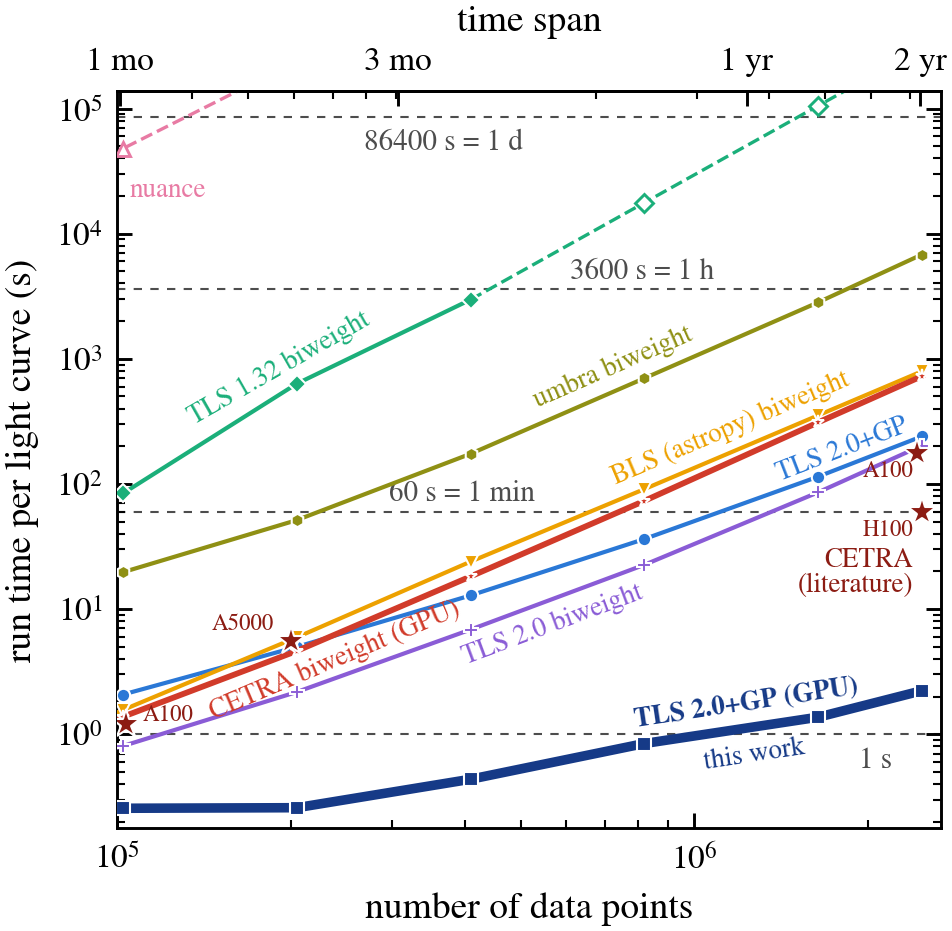
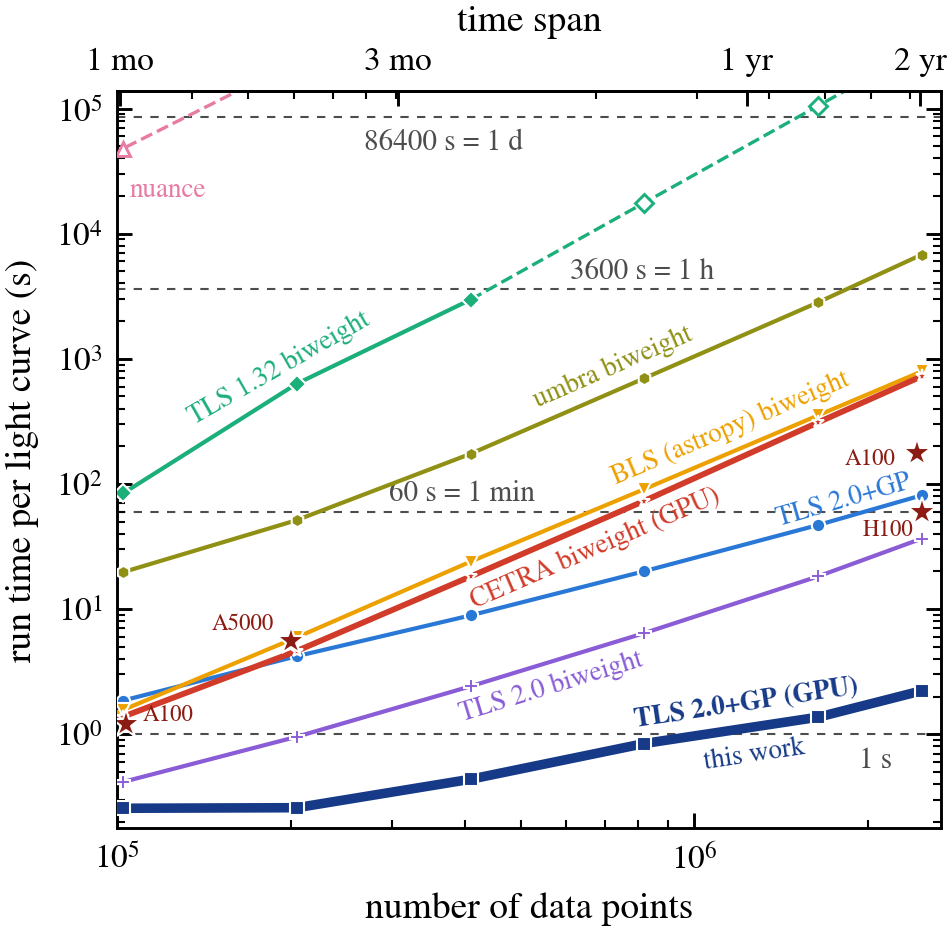
Version 2.3.0
The CPU period fold sums in single precision by default (vectorized; gp.search
fold_precision, TLS_EVENTS_FOLD_PRECISION for the events backend). README:
run times and figure of the paper's Figure 3 rerun with this version (two-year
PLATO light curve with GP: 81 s on one core, 13 s on 16 cores).

Changed region(s): [[0.1218, 0.4361, 0.9748, 0.841], [0.6702, 0.6541, 0.7616, 0.6853]]

diff --git a/transitleastsquares/version.py b/transitleastsquares/version.py
@@ -1,3 +1,3 @@
-TLS_VERSIONING = "2.2.0"
-TLS_DATE = "8 Nov 2026"
+TLS_VERSIONING = "2.3.0"
+TLS_DATE = "12 Nov 2026"
 __version__ = TLS_VERSIONING

diff --git a/docs/Changelog.md b/docs/Changelog.md
@@ -8,10 +8,11 @@ The versioning scheme is: major.minor.revision
 - **minor:** Will be increased when adding functionality in a backwards-compatible manner. Will be documented in this changelog.
 - **revision:** Will be increased for backwards-compatible bug fixes and very minor added functionality. Will not always be documented in this changelog.
 
-## Unreleased
+## Version 2.3.0 (12 November 2026)
 
 - **Changed:** The CPU period fold of `gp.search` and of the `events` backend (`fold="blocked"`) is vectorized and sums in single precision by default, as the GPU fold: about 5x faster than in 2.2.0 (409,600 points of the PLATO light curve of the paper's Figure 3, one core: the fold 6.2 s -> 1.3 s). On 84 light curves with injected transits near the detection threshold the SDE changed by at most 3e-5 and no best period or detection changed. `gp.search(fold_precision="float64")` (`TLS_EVENTS_FOLD_PRECISION=float64` for the `events` backend) gives the bit-identical results of 2.2.0, still about 3x faster.
 - **Changed:** Period groups of the cache-blocked fold are sized at the epoch grid each period uses (2.7 % faster on the two-year light curve).
+- **Changed:** The run times in the README and its figure are those of this version (two-year PLATO light curve with GP: 81 s on one core, 13 s on 16 cores; biweight + TLS 2.0: 37 s on one core).
 
 ## Version 2.2.0 (8 November 2026)
 

diff --git a/README.md b/README.md
@@ -14,7 +14,7 @@ We present a new method to detect planetary transits from time-series photometry
 ![image](https://raw.githubusercontent.com/hippke/tls/master/docs/frontpage_rescaled.png)
 
 ## What's new in TLS 2
-* **Fast:** a two-year PLATO light curve at 25 s cadence (2.5 million points) is searched with simultaneous GP detrending in 4 min on a single CPU core, 25 s on 16 cores, or about 2 s on a consumer GPU (RTX 5060), including the hyperparameter fit and flare clipping. On the same data, biweight detrending followed by TLS 2.0 takes 3.4 min on one core and BLS 13 min; CETRA needs 12 min on the same GPU, `umbra` 1.9 h, TLS 1.32 about 3.5 d, and `nuance` years.
+* **Fast:** a two-year PLATO light curve at 25 s cadence (2.5 million points) is searched with simultaneous GP detrending in 81 s on a single CPU core, 13 s on 16 cores, or about 2 s on a consumer GPU (RTX 5060), including the hyperparameter fit and flare clipping. On the same data, biweight detrending followed by TLS 2.0 takes 3.4 min on one core and BLS 13 min; CETRA needs 12 min on the same GPU, `umbra` 1.9 h, TLS 1.32 about 3.5 d, and `nuance` years.
 
   <img src="https://raw.githubusercontent.com/hippke/tls/master/docs/fig_scaling.png" width="600" alt="Run time per light curve against the number of data points for TLS 2.0+GP (CPU and GPU), TLS 2.0, TLS 1.32, BLS, CETRA, umbra and nuance">
 
